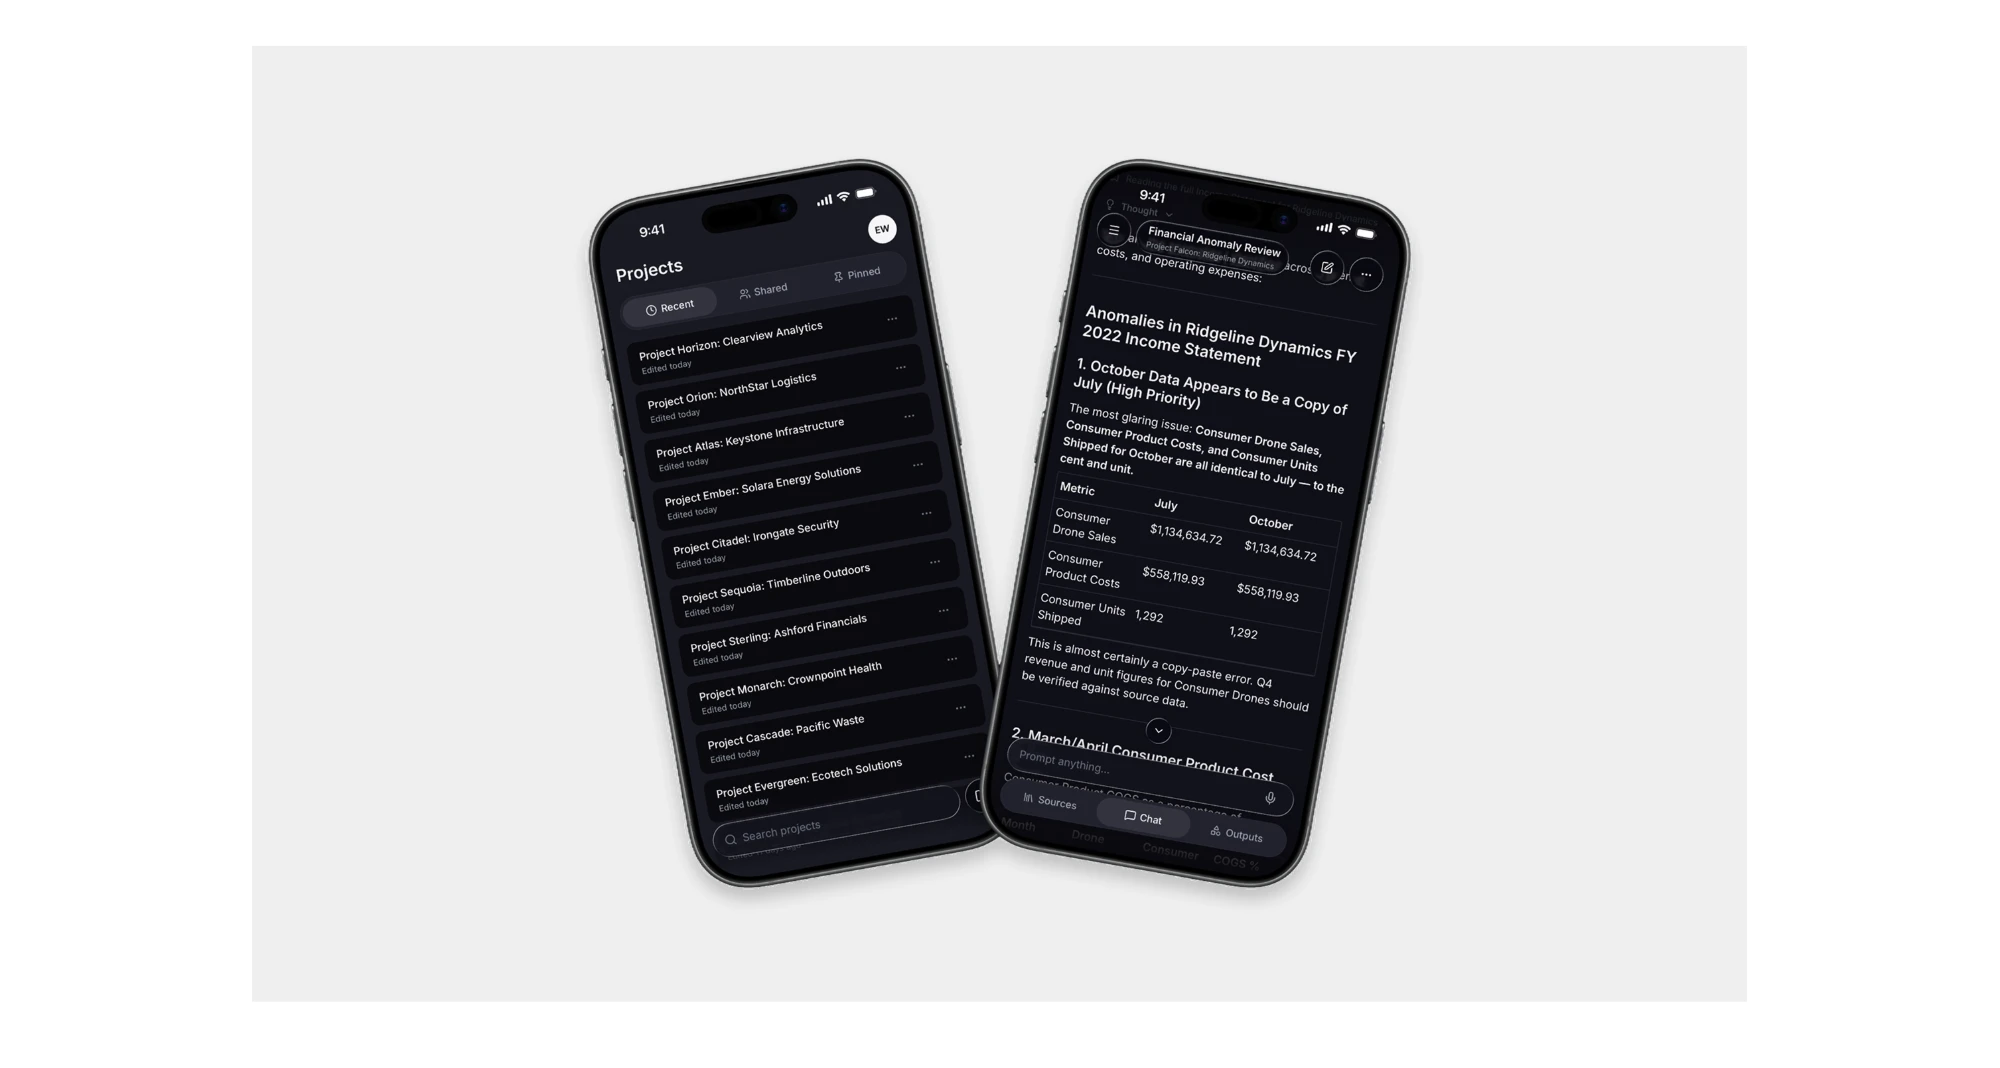
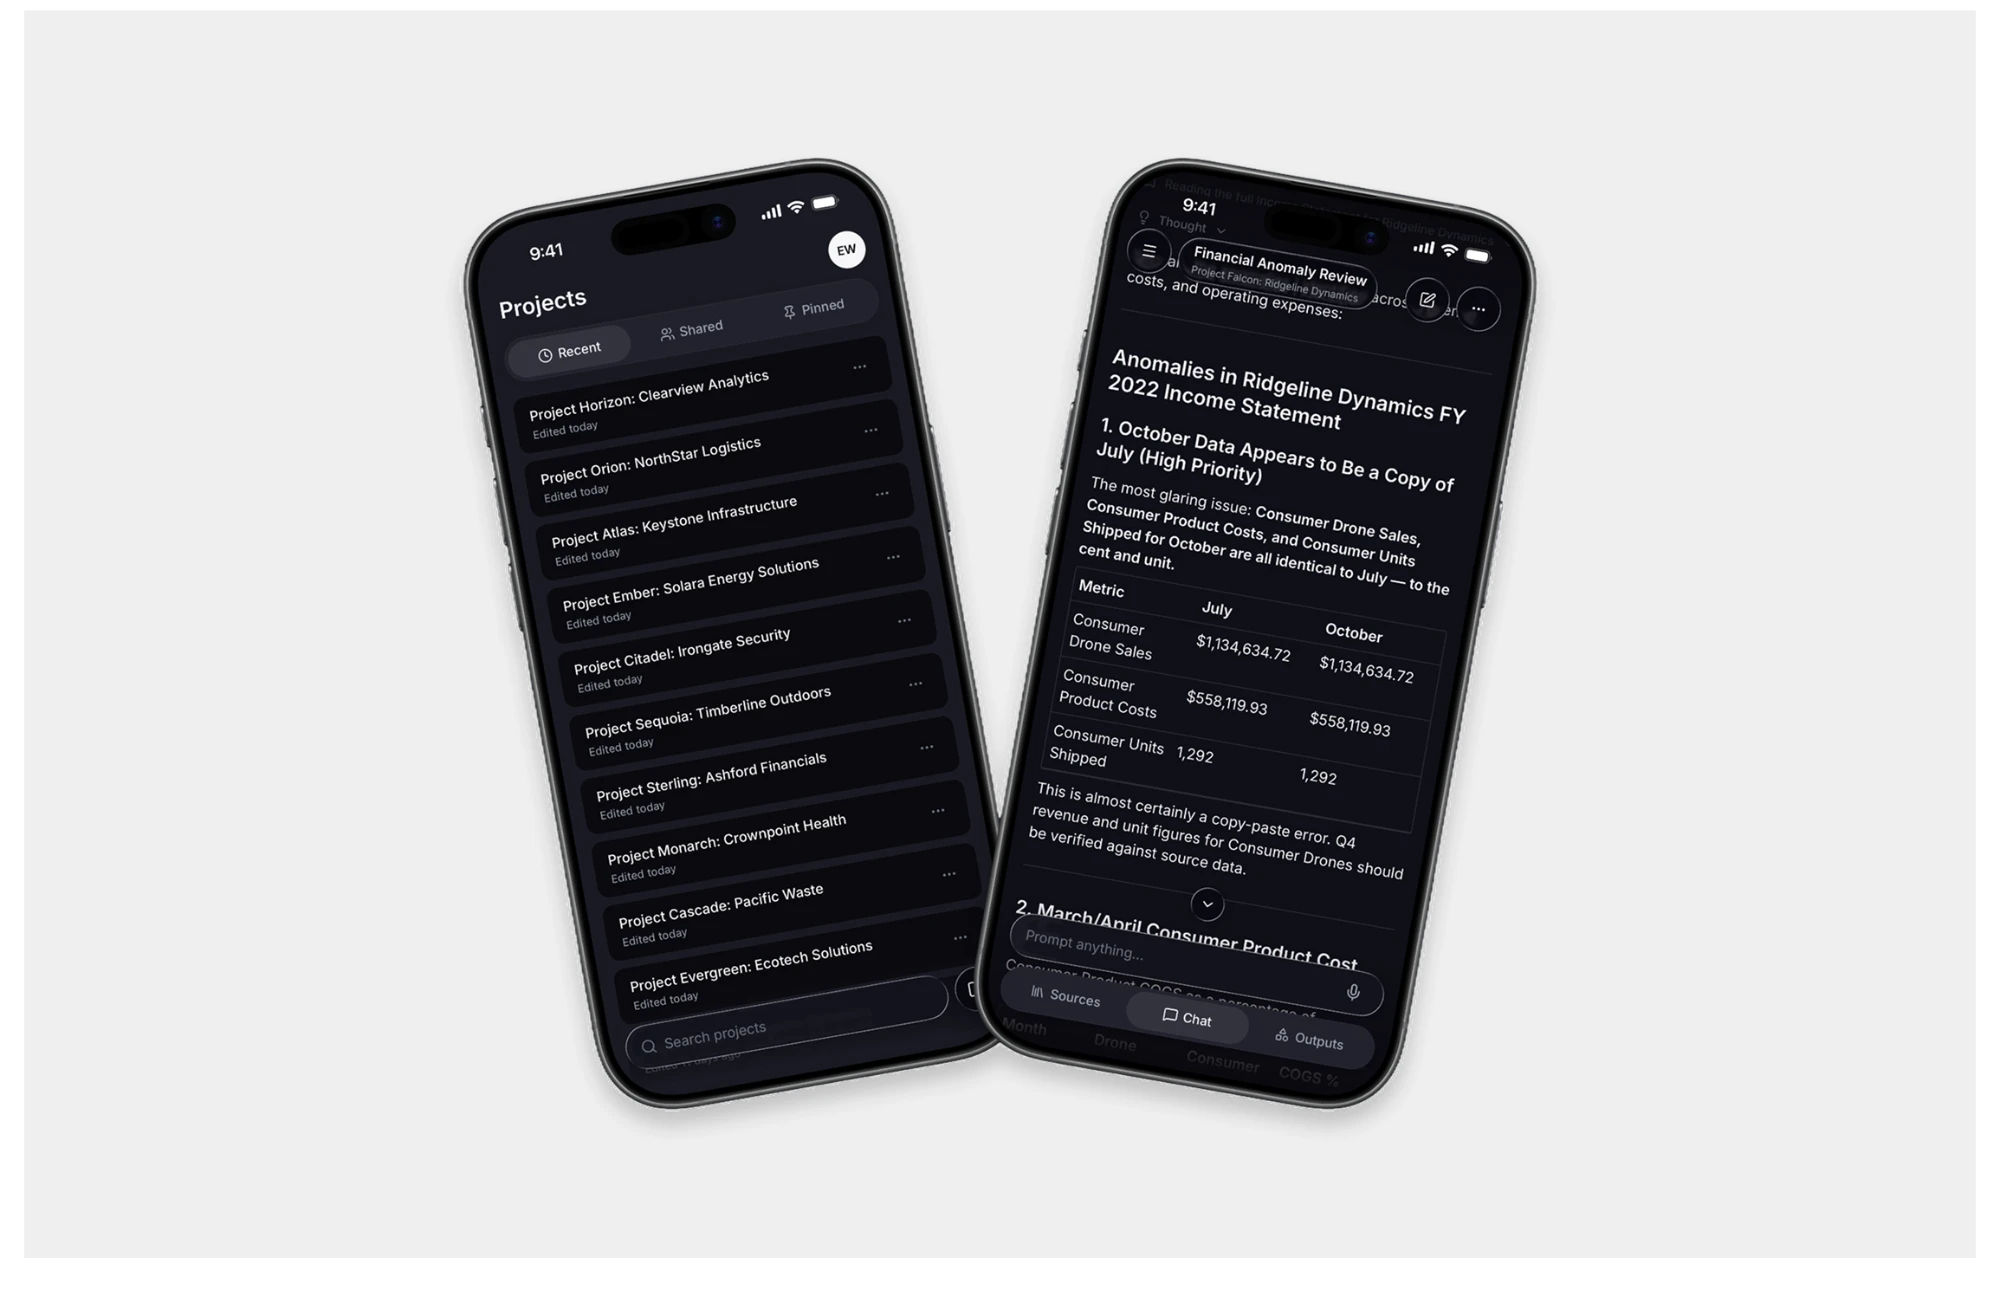
Replace the Brightwave mobile image
Swaps in the corrected mobile shot and updates its frame ratio to match.

Claude-Session: https://claude.ai/code/session_015xVoT4PSB2yyePY6a4F4ky

Changed region(s): [[0.217, 0.1236, 0.775, 0.8652]]

diff --git a/src/work/content.js b/src/work/content.js
@@ -45,7 +45,7 @@ export const companies = [
       { size: 'large', ratio: '2000 / 1278', src: '/work/brightwave/sources.webp', title: 'Sources and chat in a project' },
       { size: 'large', ratio: '2000 / 1278', src: '/work/brightwave/lbo-model.webp', title: 'Agent building an LBO model' },
       { size: 'large', ratio: '2000 / 1278', src: '/work/brightwave/details.webp', title: 'Evidence, outputs and agents up close' },
-      { size: 'large', ratio: '2000 / 1068', src: '/work/brightwave/mobile.webp', title: 'Brightwave on mobile' },
+      { size: 'large', ratio: '2000 / 1296', src: '/work/brightwave/mobile.webp', title: 'Brightwave on mobile' },
     ],
   },
   {
